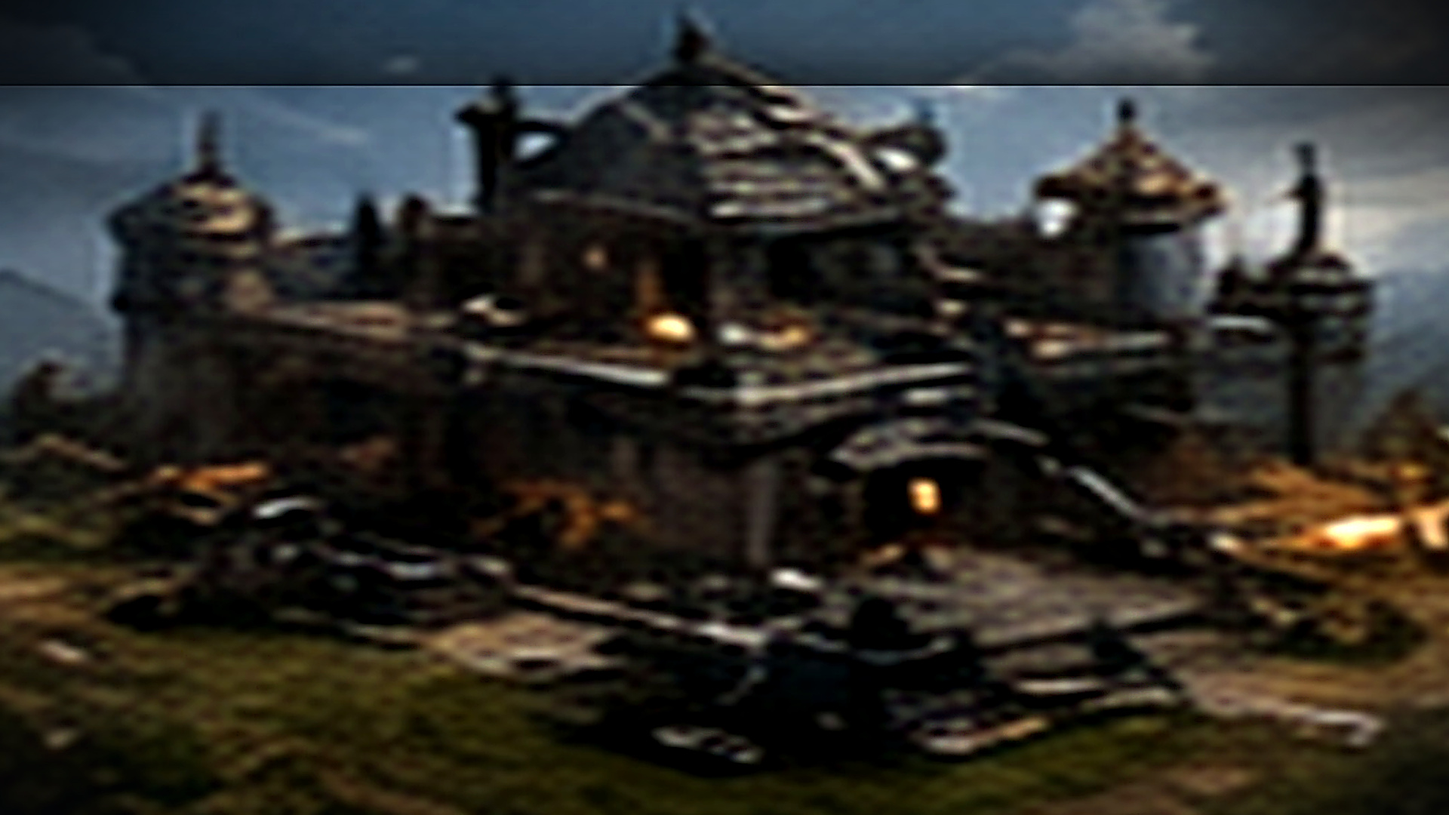
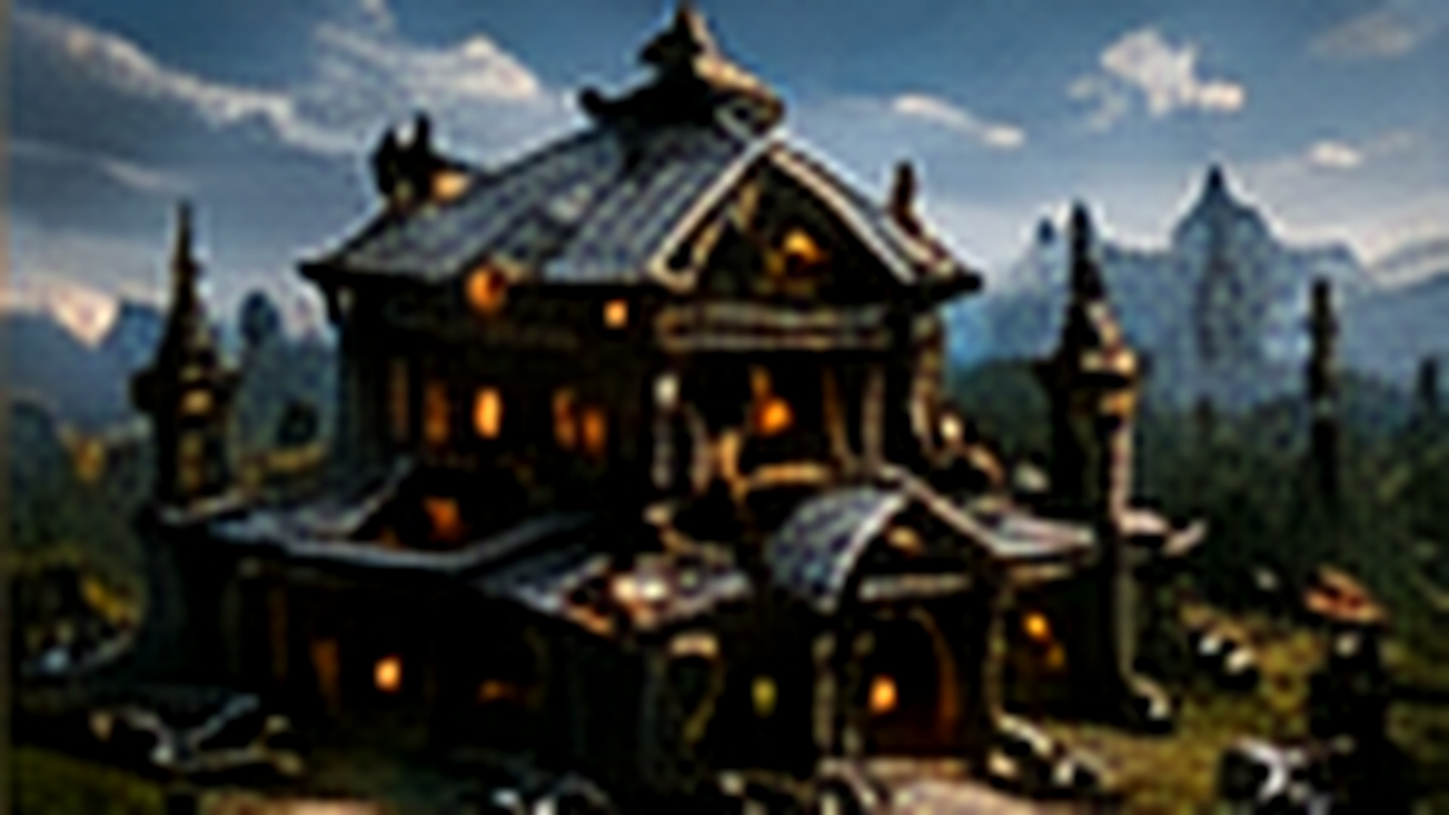
54

diff --git a/index.html b/index.html
@@ -28,11 +28,11 @@
         <h1>더 강하게.<br><span>더 오래 살아남아라.</span></h1>
         <p class="hero-copy">28종 서버 테마를 서버 리뉴얼 드롭다운과 완전히 연결하고 포커·원카드·조커잡기를 참가형 Discord 카드게임으로 추가했습니다. 패치 날짜는 2026-08-02입니다.</p>
         <div class="hero-actions"><a class="button primary" data-bot-link href="#">＋ 아바돈 소환하기</a><a class="button secondary" href="#live">실시간 기록 보기 →</a></div>
-        <div class="status-row"><span class="pill"><span class="status-dot" data-live-dot></span><b data-status>AWAITING SIGNAL</b></span><span class="pill">LATEST <b data-version>v6.5.1</b></span><span class="pill" data-status-note>SERVER RENEWAL · 28 THEMES · CARD GAMES</span></div>
+        <div class="status-row"><span class="pill"><span class="status-dot" data-live-dot></span><b data-status>AWAITING SIGNAL</b></span><span class="pill">LATEST <b data-version>v6.5.1a</b></span><span class="pill" data-status-note>SERVER RENEWAL · 28 THEMES · CARD GAMES</span></div>
       </div>
       <div class="core-card gothic-arch">
         <div class="core-card-inner">
-          <span class="version-chip" data-version>v6.5.1</span>
+          <span class="version-chip" data-version>v6.5.1a</span>
           <div class="sigil" aria-hidden="true"><span></span></div>
           <h2 class="core-title-inline"><b>ABADDON</b><span>SERVER RENEWAL · CARD GAMES · 2026-08-02</span></h2>
           <p>28종 테마를 서버 리뉴얼의 채널 구조·게임 구역·브리핑과 동기화했습니다. 포커·원카드·조커잡기는 버튼·드롭다운·비공개 응답을 사용합니다.</p>
@@ -45,19 +45,18 @@
           <div class="mini-stats"><div class="mini-stat"><b>28</b><span>서버 테마</span></div><div class="mini-stat"><b>3</b><span>신규 카드게임</span></div><div class="mini-stat"><b>20</b><span>리뉴얼 메뉴 항목</span></div></div>
         </div>
       </div>
-      </div>
     </div>
   </section>
   <section class="section v641a-section">
     <div class="container">
-      <div class="section-head"><div><div class="eyebrow">V6.5.0 · WORLD & VISUAL RENEWAL</div><h2>화면에 맞는 이미지, 선택할 수 있는 세계</h2></div><p>모든 이미지 카드는 화면 밖으로 넘치지 않도록 16:9 안전 프레임에 맞췄고, 기지·장비·보물은 원본 비율을 보존해 선명하게 표시합니다.</p></div>
-      <div class="boss-grid life-grid">
-        <article class="boss-card"><img src="assets/equipment_v633/named_equipment.webp" alt="장비 이미지 복구"><div><h3>장비·강화</h3><p>실제 장비 이미지를 유지하며 +0~+4는 원본, +5 이후부터 단계별 국소 효과가 적용됩니다.</p></div></article>
-        <article class="boss-card"><img src="assets/equipment_v633/named_treasure.webp" alt="보물 감정 이미지"><div><h3>보물·감정</h3><p>감정 결과에 실제 보물 이미지를 다시 표시하고 가치·등급·감정사 보정을 함께 보여줍니다.</p></div></article>
-        <article class="boss-card"><img src="assets/pets_v634/unicorn/0.webp" alt="펫 이미지"><div><h3>펫·진화</h3><p>19종 동료의 단계별 이미지를 복구하고 성장·친밀도·전투력을 함께 표시합니다.</p></div></article>
-        <article class="boss-card media-contain"><img src="assets/v635/base/stages/level_5.jpg" alt="고화질 요새급 기지"><div><h3>기지 이미지 리마스터</h3><p>오래된 제목·화살표·잘린 문구를 제거하고 1920×1080 고화질 안전 프레임으로 다시 정리했습니다.</p></div></article>
-        <article class="boss-card"><div><h3>카지노</h3><p>카지노만 이미지 없이 손익·배팅·승패와 실시간 이모지 차트 중심으로 유지합니다.</p></div></article>
-        <article class="boss-card"><div><h3>28종 서버 테마</h3><p>기존 아포칼립스 12종에 깔끔 고딕·순백 성당·벚꽃 정원·민트 온실·코발트 시티 등 16종을 더했습니다.</p></div></article>
+      <div class="section-head"><div><div class="eyebrow">V6.5.1a · HOMEPAGE VISUAL QA HOTFIX</div><h2>화면에 맞는 이미지, 선택할 수 있는 세계</h2></div><p>실제 배포 에셋을 기준으로 장비·보물·펫·기지·갈갈이 미리보기를 다시 구성하고, 잘린 화면·중첩 스크린샷·흐릿한 기지 이미지를 제거했습니다.</p></div>
+      <div class="boss-grid life-grid visual-summary-grid">
+        <article class="boss-card icon-card"><div><span class="feature-emoji">⚔</span><h3>장비·강화</h3><p>실제 장비 카드와 단계별 안전 영역 강화 효과를 사용합니다.</p></div></article>
+        <article class="boss-card icon-card"><div><span class="feature-emoji">🔮</span><h3>보물·감정</h3><p>감정된 보물 원본 카드와 가치·등급 정보를 함께 표시합니다.</p></div></article>
+        <article class="boss-card icon-card"><div><span class="feature-emoji">🦄</span><h3>펫·진화</h3><p>19종 동료의 기본·1차·최종 진화 이미지를 유지합니다.</p></div></article>
+        <article class="boss-card icon-card"><div><span class="feature-emoji">🏰</span><h3>기지 이미지</h3><p>Lv.0~Lv.5를 같은 구도에서 비교할 수 있도록 다시 정렬했습니다.</p></div></article>
+        <article class="boss-card icon-card"><div><span class="feature-emoji">🎰</span><h3>카지노</h3><p>카지노만 이미지 없이 손익·배팅·승패 중심으로 유지합니다.</p></div></article>
+        <article class="boss-card icon-card"><div><span class="feature-emoji">🎨</span><h3>28종 서버 테마</h3><p>아포칼립스·고딕·화사·모던 테마를 서버리뉴얼에서 선택합니다.</p></div></article>
       </div>
       <div class="raid-command-row"><code>!장비외형</code><code>!보물감정</code><code>!펫정보</code><code>!기지</code><code>!고철갈갈이</code><code>!서버테마</code><code>!테스트 상세</code></div>
     </div>
@@ -97,7 +96,7 @@
         <article class="boss-card"><div><h3>다크존 탈출</h3><p>진입 비용을 내고 파밍한 뒤 3분 동안 탈출 위치가 공개됩니다. 습격당해도 기존 인벤토리와 장착 장비는 안전합니다.</p></div></article>
         <article class="boss-card"><div><h3>밀수품 운반</h3><p>10분 동안 공개 운반을 버티면 계약 화물 가치의 2배를 우편으로 정산합니다. 실패해도 계약 화물만 잃습니다.</p></div></article>
         <article class="boss-card"><div><h3>보급선 피버</h3><p>서버별 하루 1~2회, 10분 동안 생활 획득량 2배와 희귀 발견 보정을 제공합니다. 이벤트당 한 번 보급선 수색이 가능합니다.</p></div></article>
-        <article class="boss-card"><img src="assets/v640/scrap/grinder.jpg" alt="고철 갈갈이 분쇄기"><div><h3>고철 갈갈이</h3><p>잉여 나무·광석·고철과 비장착 저등급 장비를 칩·강화석·극저확률 상위 장비로 재활용합니다.</p></div></article>
+        <article class="boss-card"><img src="assets/v651a/scrap_clean.webp" alt="고철 갈갈이 분쇄기"><div><h3>고철 갈갈이</h3><p>잉여 나무·광석·고철과 비장착 저등급 장비를 칩·강화석·극저확률 상위 장비로 재활용합니다.</p></div></article>
         <article class="boss-card"><div><h3>우편함</h3><p>시간형 작전 정산과 서버 이벤트 보상을 <code>!우편함</code>에서 확인하고 <code>!받기 all</code>로 한 번에 수령합니다.</p></div></article>
         <article class="boss-card"><div><h3>선택형 알림</h3><p>날씨·보급선·밀수품 알림을 DM·멘션·둘 다 중에서 선택합니다. 서버 관리자는 공개 이벤트 채널을 지정할 수 있습니다.</p></div></article>
         <article class="boss-card"><div><h3>명령어 자동 분류</h3><p>새 기능은 <b>특수 작전 / 서버 이벤트</b> 최상위 드롭다운과 상점·서버 관련 카테고리에 중복 없이 정렬됩니다.</p></div></article>
@@ -146,10 +145,10 @@
       <div class="section-head"><div><div class="eyebrow">CO-OP DEFENSE · TACTICAL COMBAT · EQUIPMENT FX</div><h2>기존 전투·기지 시스템도 그대로 연결됩니다</h2></div><p>기존 기지 방어·자원 시장·RPG·스토리·던전 전술 전투는 유지하고, 이번 환경·정비 기능이 해당 시스템의 보상과 위험에 보조적으로 연결됩니다.</p></div>
       <div class="boss-grid life-grid">
         <article class="boss-card"><img src="assets/v636/weather_disaster.jpg" alt="종말 날씨와 재난"><div><h3>변동 날씨·재난</h3><p>2~5시간 사이의 불규칙한 환경 구간이 생활 획득량·사고율·던전 전투 효율과 희귀 결과에 소폭 영향을 줍니다.</p></div></article>
-        <article class="boss-card"><img src="assets/v635/base/reactions/defense_upgrade.jpg" alt="기지 방어 레이드"><div><h3>주간 기지 방어</h3><p>개인 기지 레벨과 장비 전투력을 합산하는 서버 협동전. 기존 레이드와 보상 구조를 분리했습니다.</p></div></article>
-        <article class="boss-card"><img src="assets/v635/base/reactions/resource_shortage.jpg" alt="자원 변동 시장"><div><h3>변동 자원 시장</h3><p>나무·광석·고철을 식량으로 사고팔며 수요와 공급에 따라 가격이 변합니다. 카지노 칩 교환도 지원합니다.</p></div></article>
+        <article class="boss-card"><img src="assets/v651a/base_defense.webp" alt="기지 방어 레이드"><div><h3>주간 기지 방어</h3><p>개인 기지 레벨과 장비 전투력을 합산하는 서버 협동전. 기존 레이드와 보상 구조를 분리했습니다.</p></div></article>
+        <article class="boss-card"><img src="assets/v651a/resource_market.webp" alt="자원 변동 시장"><div><h3>변동 자원 시장</h3><p>나무·광석·고철을 식량으로 사고팔며 수요와 공급에 따라 가격이 변합니다. 카지노 칩 교환도 지원합니다.</p></div></article>
         <article class="boss-card"><img src="assets/pets_v634/unicorn/0.webp" alt="펫 카지노 시너지"><div><h3>펫·카지노 시너지</h3><p>일부 동행 펫이 승리 칩을 소폭 늘리거나 손실 일부를 환급합니다. 결과 판정 자체를 뒤집지는 않습니다.</p></div></article>
-        <article class="boss-card"><img src="assets/equipment_v633/enhancement.png" alt="무기별 강화 효과"><div><h3>무기별 강화 이펙트</h3><p>전기·화염·공허·생체·방어·정밀·근접 장비가 서로 다른 강화 효과를 사용합니다.</p></div></article>
+        <article class="boss-card asset-preview-card"><img src="assets/v651a/enhancement_clear.webp" alt="무기별 강화 효과"><div><h3>무기별 강화 이펙트</h3><p>전기·화염·공허·생체·방어·정밀·근접 장비가 서로 다른 강화 효과를 사용합니다.</p></div></article>
         <article class="boss-card"><img src="assets/v636/tactical_combat.jpg" alt="버튼형 전술 전투"><div><h3>버튼형 전술 전투</h3><p>공격·기술·방어·응급·도주를 선택합니다. 기존 던전은 빠른 자동전투 모드로 유지됩니다.</p></div></article>
       </div>
       <div class="raid-command-row"><code>!기지방어</code><code>!기지방어공격</code><code>!자원시장</code><code>!기지칩교환</code><code>!전투</code><code>!던전전술</code><code>!스토리 전투</code></div>
@@ -184,15 +183,14 @@
     <div class="container">
       <div class="section-head"><div><div class="eyebrow">CLEAN CASINO UI · FIVE-STAGE FORTRESS</div><h2>카지노 결과 정리 · 고난도 기지 업그레이드</h2></div><p>카지노는 이미지 없이 결과 중심 UI로 정리하고, 기지는 단계별 외형과 고난도 자원 구조를 유지합니다.</p></div>
       <div class="boss-grid life-grid">
-        <article class="boss-card"><div><h3>카지노 이미지 제거</h3><p>슬롯·블랙잭·룰렛·바카라 결과는 이미지 없이 더 깔끔한 임베드로 표시됩니다.</p></div></article>
-        <article class="boss-card"><div><h3>손익 판정 유지</h3><p>일반 승리·대승·잭팟·패배·치명 실패의 결과 계산과 보상 로직은 그대로 유지됩니다.</p></div></article>
-        <article class="boss-card"><div><h3>로그 가독성 개선</h3><p>연속 플레이 시 이미지 스팸 없이 결과와 잔액 변동을 빠르게 확인할 수 있습니다.</p></div></article>
-        <article class="boss-card"><div><h3>공식 사이트 동기화</h3><p>홈페이지 안내도 실제 배포 상태와 동일하게 갱신했습니다.</p></div></article>
-        <article class="boss-card"><img src="assets/v635/base/stages/level_1.jpg" alt="Lv.1 야영지"><div><h3>Lv.1 야영지</h3><p>기본 생산 거점. 건설부터 기존보다 많은 생활 자원이 필요합니다.</p></div></article>
-        <article class="boss-card"><img src="assets/v635/base/stages/level_2.jpg" alt="Lv.2 임시 거점"><div><h3>Lv.2 임시 거점</h3><p>첫 강화부터 30분의 실제 공사 시간이 적용됩니다.</p></div></article>
-        <article class="boss-card"><img src="assets/v635/base/stages/level_3.jpg" alt="Lv.3 강화 거점"><div><h3>Lv.3 강화 거점</h3><p>중반부터 자원 요구량이 크게 뛰어 장기 채집과 투자가 필요합니다.</p></div></article>
-        <article class="boss-card"><img src="assets/v635/base/stages/level_4.jpg" alt="Lv.4 중형 기지"><div><h3>Lv.4 중형 기지</h3><p>8시간 공사와 천 단위 생활 자원, 천만 단위 식량을 요구합니다.</p></div></article>
-        <article class="boss-card"><img src="assets/v635/base/stages/level_5.jpg" alt="Lv.5 요새급 기지"><div><h3>Lv.5 요새급 기지</h3><p>최종 24시간 공사와 대규모 자원을 요구하는 최상위 생존 목표입니다.</p></div></article>
+        <article class="boss-card icon-card"><div><span class="feature-emoji">🚫</span><h3>카지노 이미지 제거</h3><p>슬롯·블랙잭·룰렛·바카라 결과는 이미지 없이 더 깔끔한 임베드로 표시됩니다.</p></div></article>
+        <article class="boss-card icon-card"><div><span class="feature-emoji">⚖</span><h3>손익 판정 유지</h3><p>일반 승리·대승·잭팟·패배·치명 실패의 결과 계산과 보상 로직은 그대로 유지됩니다.</p></div></article>
+        <article class="boss-card icon-card"><div><span class="feature-emoji">📋</span><h3>로그 가독성 개선</h3><p>연속 플레이 시 이미지 스팸 없이 결과와 잔액 변동을 빠르게 확인할 수 있습니다.</p></div></article>
+        <article class="boss-card base-stage-card"><img src="assets/v635/base/stages/level_1.jpg" alt="Lv.1 야영지"><div><h3>Lv.1 야영지</h3><p>기본 생산 거점. 건설부터 기존보다 많은 생활 자원이 필요합니다.</p></div></article>
+        <article class="boss-card base-stage-card"><img src="assets/v635/base/stages/level_2.jpg" alt="Lv.2 임시 거점"><div><h3>Lv.2 임시 거점</h3><p>첫 강화부터 30분의 실제 공사 시간이 적용됩니다.</p></div></article>
+        <article class="boss-card base-stage-card"><img src="assets/v635/base/stages/level_3.jpg" alt="Lv.3 강화 거점"><div><h3>Lv.3 강화 거점</h3><p>중반부터 자원 요구량이 크게 뛰어 장기 채집과 투자가 필요합니다.</p></div></article>
+        <article class="boss-card base-stage-card"><img src="assets/v635/base/stages/level_4.jpg" alt="Lv.4 중형 기지"><div><h3>Lv.4 중형 기지</h3><p>8시간 공사와 천 단위 생활 자원, 천만 단위 식량을 요구합니다.</p></div></article>
+        <article class="boss-card base-stage-card"><img src="assets/v635/base/stages/level_5.jpg" alt="Lv.5 요새급 기지"><div><h3>Lv.5 요새급 기지</h3><p>최종 24시간 공사와 대규모 자원을 요구하는 최상위 생존 목표입니다.</p></div></article>
       </div>
       <div class="raid-command-row"><code>!카지노</code><code>!슬롯</code><code>!블랙잭</code><code>!룰렛</code><code>!기지</code><code>!기지건설</code><code>!기지강화</code><code>!기지수확</code><code>!패치노트</code><code>!명령어</code></div>
     </div>
@@ -245,10 +243,10 @@
     <div class="container">
       <div class="section-head"><div><div class="eyebrow">EQUIPMENT · FORGE · CRAFTING · RELICS</div><h2>장비·제작 비주얼과 강화 효과</h2></div><p>장비 70종과 보물 20종의 이름별 이미지를 유지하면서 무기 종류별 강화 이펙트를 추가했습니다. <b>!장비</b> 드롭다운·검색·상세 카드는 그대로 사용할 수 있습니다.</p></div>
       <div class="boss-grid life-grid">
-        <article class="boss-card"><img src="assets/equipment_v633/named_equipment.webp" alt="이름별 장비 이미지"><div><h3>장비 70종 전용 이미지</h3><p>ITEM_DB의 실제 장비 이름·등급·설명·전투력에 맞춘 개별 카드</p></div></article>
-        <article class="boss-card"><img src="assets/equipment_v633/enhancement.png" alt="고강화 장비"><div><h3>강화 외형 진화</h3><p>+0~+4는 원본 그대로, +5 이후부터 테두리·외곽 광점·속성 모서리 효과·초월 룬이 단계별로 확장</p></div></article>
-        <article class="boss-card"><img src="assets/equipment_v633/crafting.png" alt="장비 제작"><div><h3>제작 성공·실패</h3><p>실제 레일건 이미지를 기준으로 성공·실패 균열과 광원 효과를 분리</p></div></article>
-        <article class="boss-card"><img src="assets/equipment_v633/named_treasure.webp" alt="이름별 보물 감정"><div><h3>보물 20종 감정 이미지</h3><p>E~A 등급의 실제 감정 보물 이름에 맞는 이미지 표시</p></div></article>
+        <article class="boss-card asset-preview-card"><img src="assets/v651a/equipment_clean.webp" alt="이름별 장비 이미지"><div><h3>장비 70종 전용 이미지</h3><p>ITEM_DB의 실제 장비 이름·등급·설명·전투력에 맞춘 개별 카드</p></div></article>
+        <article class="boss-card asset-preview-card"><img src="assets/v651a/enhancement_clear.webp" alt="고강화 장비"><div><h3>강화 외형 진화</h3><p>+0~+4는 원본 그대로, +5 이후부터 테두리·외곽 광점·속성 모서리 효과·초월 룬이 단계별로 확장</p></div></article>
+        <article class="boss-card"><img src="assets/v651a/base_progression.webp" alt="기지 성장 단계"><div><h3>기지 성장 단계</h3><p>Lv.0 야영지부터 Lv.5 요새까지 같은 구도에서 성장 흐름을 비교</p></div></article>
+        <article class="boss-card asset-preview-card"><img src="assets/v651a/treasure_clean.webp" alt="이름별 보물 감정"><div><h3>보물 20종 감정 이미지</h3><p>E~A 등급의 실제 감정 보물 이름에 맞는 이미지 표시</p></div></article>
       </div>
       <div class="raid-command-row"><code>!장비</code><code>!장착</code><code>!감정</code><code>!강화</code><code>!장비외형</code><code>!제작</code><code>!보물감정</code></div>
     </div>

diff --git a/updates.html b/updates.html
@@ -6,9 +6,10 @@
 <body>
 <header class="site-header"><div class="container nav-wrap"><a class="brand" href="index.html"><span class="brand-mark">A</span><span>ABADDON<small>OFFICIAL DISCORD RPG</small></span></a><button class="menu-button" type="button" aria-label="메뉴 열기" data-menu-button>☰</button><nav class="site-nav" data-site-nav><a href="index.html">성역</a><a href="index.html#live">실시간</a><a href="commands.html">명령어</a><a href="updates.html">기록</a><a class="nav-cta" data-discord-link href="#">공식 Discord</a></nav></div></header>
 <main>
-<section class="page-hero"><div class="container"><div class="eyebrow">CHRONICLE OF THE ABYSS</div><h1>업데이트 기록</h1><p>기존 기능을 빠뜨리지 않는 통합 패치를 기준으로 배포합니다. 현재 최신 버전은 <b data-version>v6.5.1</b>입니다.</p></div></section>
+<section class="page-hero"><div class="container"><div class="eyebrow">CHRONICLE OF THE ABYSS</div><h1>업데이트 기록</h1><p>기존 기능을 빠뜨리지 않는 통합 패치를 기준으로 배포합니다. 현재 최신 버전은 <b data-version>v6.5.1a</b>입니다.</p></div></section>
 <section class="page-shell"><div class="container timeline">
-<article class="update-card latest"><div><div class="update-version">v6.5.1</div><span class="update-badge">LATEST</span></div><div class="update-body"><h2>서버 리뉴얼·카드게임</h2><p><b>2026-08-02</b> 패치. 28종 서버 테마를 서버리뉴얼 드롭다운과 연결하고, 서버 브리핑·이벤트 채널·개인 알림·백업·복구를 한 메뉴에 통합했습니다. 포커·원카드·조커잡기를 참가 버튼과 비공개 패 확인 방식으로 추가했습니다.</p><div class="update-points"><span>28종 테마 드롭다운</span><span>서버 설정 통합</span><span>포커</span><span>원카드</span><span>조커잡기</span><span>시간 초과 환불</span><span>!명령어 최신화</span><span>2026-08-02</span></div></div></article>
+<article class="update-card latest"><div><div class="update-version">v6.5.1a</div><span class="update-badge">LATEST</span></div><div class="update-body"><h2>홈페이지·기지·갈갈이 비주얼 QA 핫픽스</h2><p><b>2026-08-02</b> 패치. 홈페이지에 남아 있던 사선 보물 미리보기, 중첩된 갈갈이 스크린샷, 흐릿한 기지 단계 이미지, 비어 보이는 텍스트 카드를 실제 배포 에셋과 정렬된 아이콘 카드로 교체했습니다. 봇의 기지·갈갈이 이미지 파일도 함께 갱신했습니다.</p><div class="update-points"><span>장비 원본 카드</span><span>보물 원본 카드</span><span>강화 FX 재검수</span><span>기지 6단계 교체</span><span>갈갈이 중첩 제거</span><span>반응형 카드 정렬</span><span>카지노만 이미지 미사용</span><span>2026-08-02</span></div></div></article>
+<article class="update-card"><div><div class="update-version">v6.5.1</div></div><div class="update-body"><h2>서버 리뉴얼·카드게임</h2><p><b>2026-08-02</b> 패치. 28종 서버 테마를 서버리뉴얼 드롭다운과 연결하고, 서버 브리핑·이벤트 채널·개인 알림·백업·복구를 한 메뉴에 통합했습니다. 포커·원카드·조커잡기를 참가 버튼과 비공개 패 확인 방식으로 추가했습니다.</p><div class="update-points"><span>28종 테마 드롭다운</span><span>서버 설정 통합</span><span>포커</span><span>원카드</span><span>조커잡기</span><span>시간 초과 환불</span><span>!명령어 최신화</span><span>2026-08-02</span></div></div></article>
 <article class="update-card"><div><div class="update-version">v6.5.0</div></div><div class="update-body"><h2>월드·비주얼·테마 리뉴얼</h2><p>기지 이미지 13장을 1920×1080으로 리마스터하고 홈페이지 이미지가 카드 밖으로 넘치지 않도록 반응형 프레임을 정리했습니다. 강화 효과는 중앙 피사체를 가리지 않는 외곽 전용 방식으로 교체하고 서버 테마를 28종으로 확장했습니다.</p><div class="update-points"><span>기지 이미지 리마스터</span><span>반응형 이미지</span><span>강화 FX 재설계</span><span>28종 테마</span><span>화사·고딕 추가</span><span>카지노만 이미지 미사용</span><span>!명령어 최신화</span><span>홈페이지 동기화</span></div></div></article>
 <article class="update-card"><div><div class="update-version">v6.3.9</div></div><div class="update-body"><h2>프론티어 작전 · 다크존 · 서버 보급선 · 우편망</h2><p>기존 원정·레이드·카지노와 중복되지 않는 작전 가방형 다크존, 10분 공개 밀수품 운반, 하루 1~2회 보급선 피버, 잉여 자원·저등급 장비 재활용, 우편함과 선택형 알림을 추가했습니다. 기존 인벤토리와 장착 장비는 강탈되지 않도록 손실 범위를 작전 화물로 제한했습니다.</p><div class="update-points"><span>다크존 3분 탈출</span><span>밀수품 10분 운반</span><span>보급선 일 1~2회</span><span>생활 ×2 피버</span><span>고철 갈갈이</span><span>우편함</span><span>DM·멘션 알림</span><span>!명령어 자동 분류</span></div></div></article>
 <article class="update-card"><div><div class="update-version">v6.3.8</div></div><div class="update-body"><h2>변동 세계 이벤트 · 무전 · 무기 정비 · 오늘의 운세</h2><p>고정 6시간 날씨를 서버별 2~5시간 랜덤 구간으로 개편하고 12종 환경을 적용했습니다. 기존 기능과 중복되지 않는 SOS 무전, 무기 내구도·파츠 개조, 떠돌이 상인 까마귀, 일일 돌연변이 구역, 대형 랜덤박스, 오늘의 운세와 읽기 전용 <code>!테스트</code>를 추가했습니다.</p><div class="update-points"><span>12종 랜덤 날씨</span><span>SOS 무전</span><span>내구도·파츠 6종</span><span>까마귀 상점</span><span>일일 위험구역</span><span>오늘의 운세</span><span>랜덤박스</span><span>자체 테스트</span></div></div></article>

diff --git a/style.css b/style.css
@@ -353,3 +353,22 @@ img { max-width: 100%; height: auto; }
   .boss-card img { aspect-ratio: 16/9; }
   .equipment-visual-section .boss-card img, .v635-section .boss-card img { padding:4px; }
 }
+
+
+/* v6.5.1a visual QA hotfix */
+.boss-grid{align-items:stretch}
+.boss-card{display:flex;flex-direction:column;min-height:0}
+.boss-card>div{flex:1 1 auto}
+.icon-card{min-height:190px;justify-content:center;background:linear-gradient(145deg,rgba(32,17,27,.96),rgba(8,7,10,.98))}
+.icon-card>div{display:flex;flex-direction:column;justify-content:center}
+.feature-emoji{display:block;font-size:34px;margin-bottom:12px;filter:drop-shadow(0 6px 18px rgba(0,0,0,.45))}
+.visual-summary-grid .icon-card{min-height:180px}
+.asset-preview-card img{object-fit:cover!important;padding:0!important;background:#07080b!important}
+.base-stage-card img{object-fit:cover!important;padding:0!important;background:#07080b!important}
+.v635-section .base-stage-card img{object-fit:cover!important;padding:0!important}
+.equipment-visual-section .asset-preview-card img{object-fit:cover!important;padding:0!important}
+.boss-card img[src*="v651a/equipment_clean"],
+.boss-card img[src*="v651a/treasure_clean"],
+.boss-card img[src*="v651a/enhancement_clear"],
+.boss-card img[src*="v651a/pet_clean"]{object-fit:cover!important;padding:0!important}
+@media(max-width:560px){.icon-card,.visual-summary-grid .icon-card{min-height:145px}.feature-emoji{font-size:29px}}
